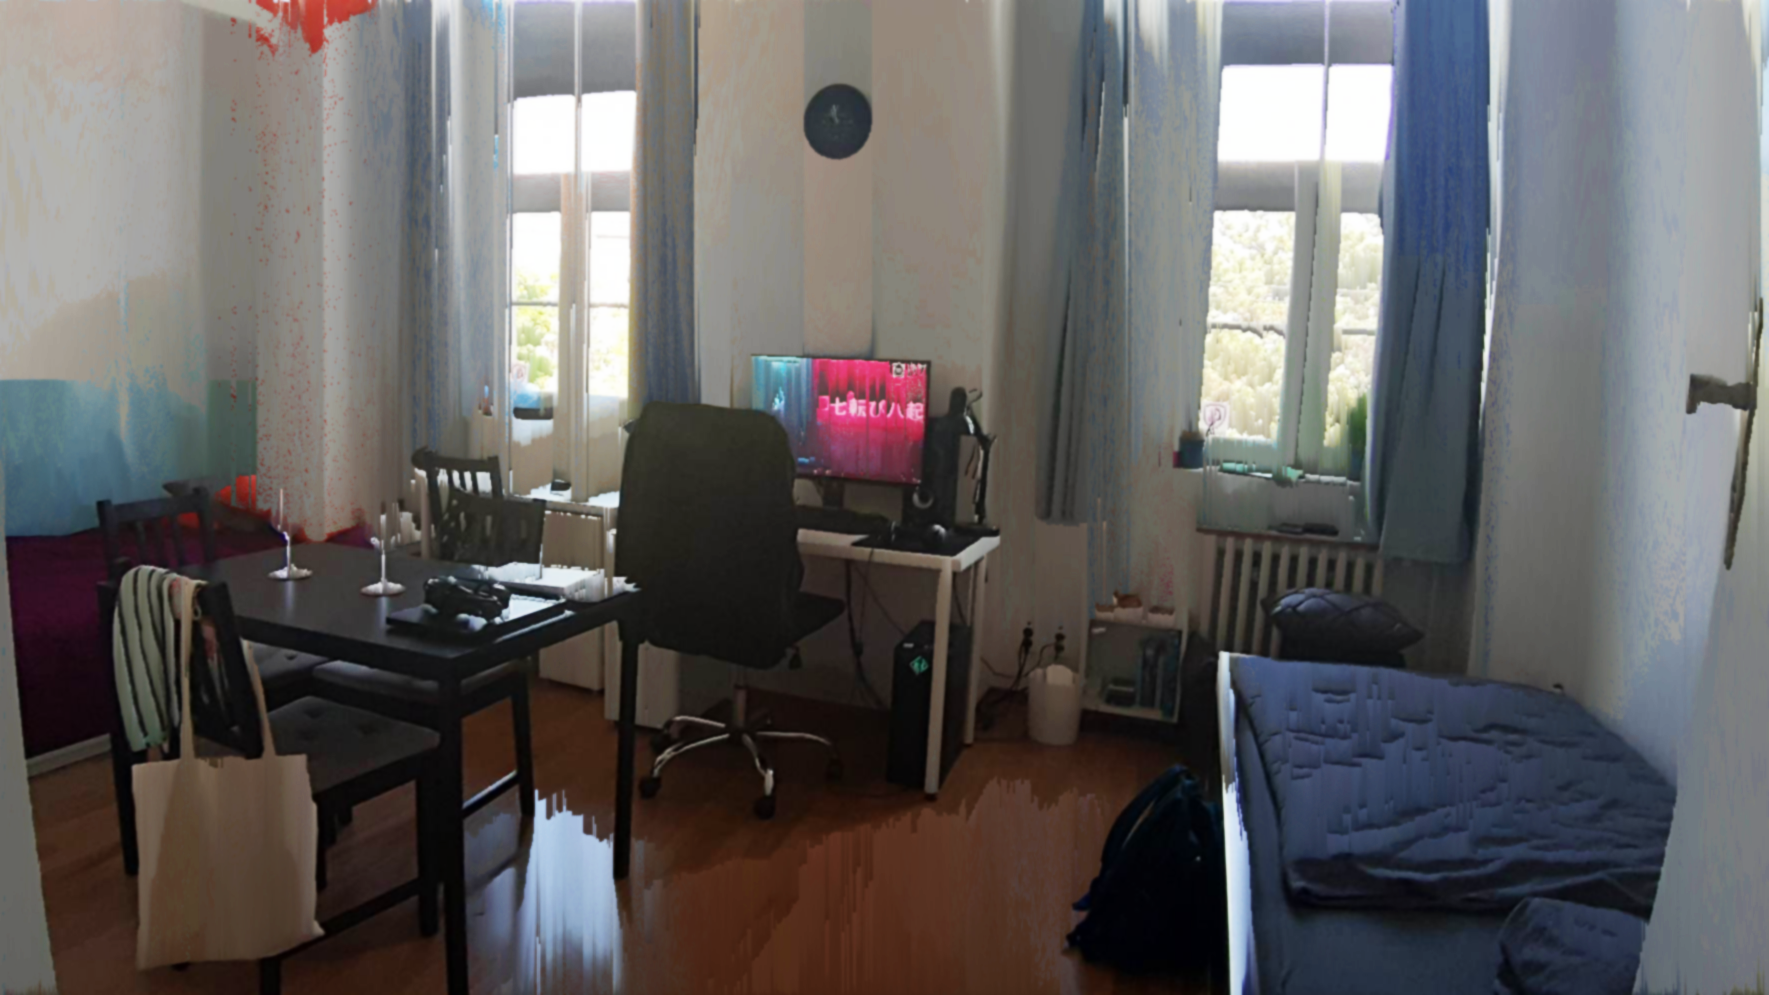
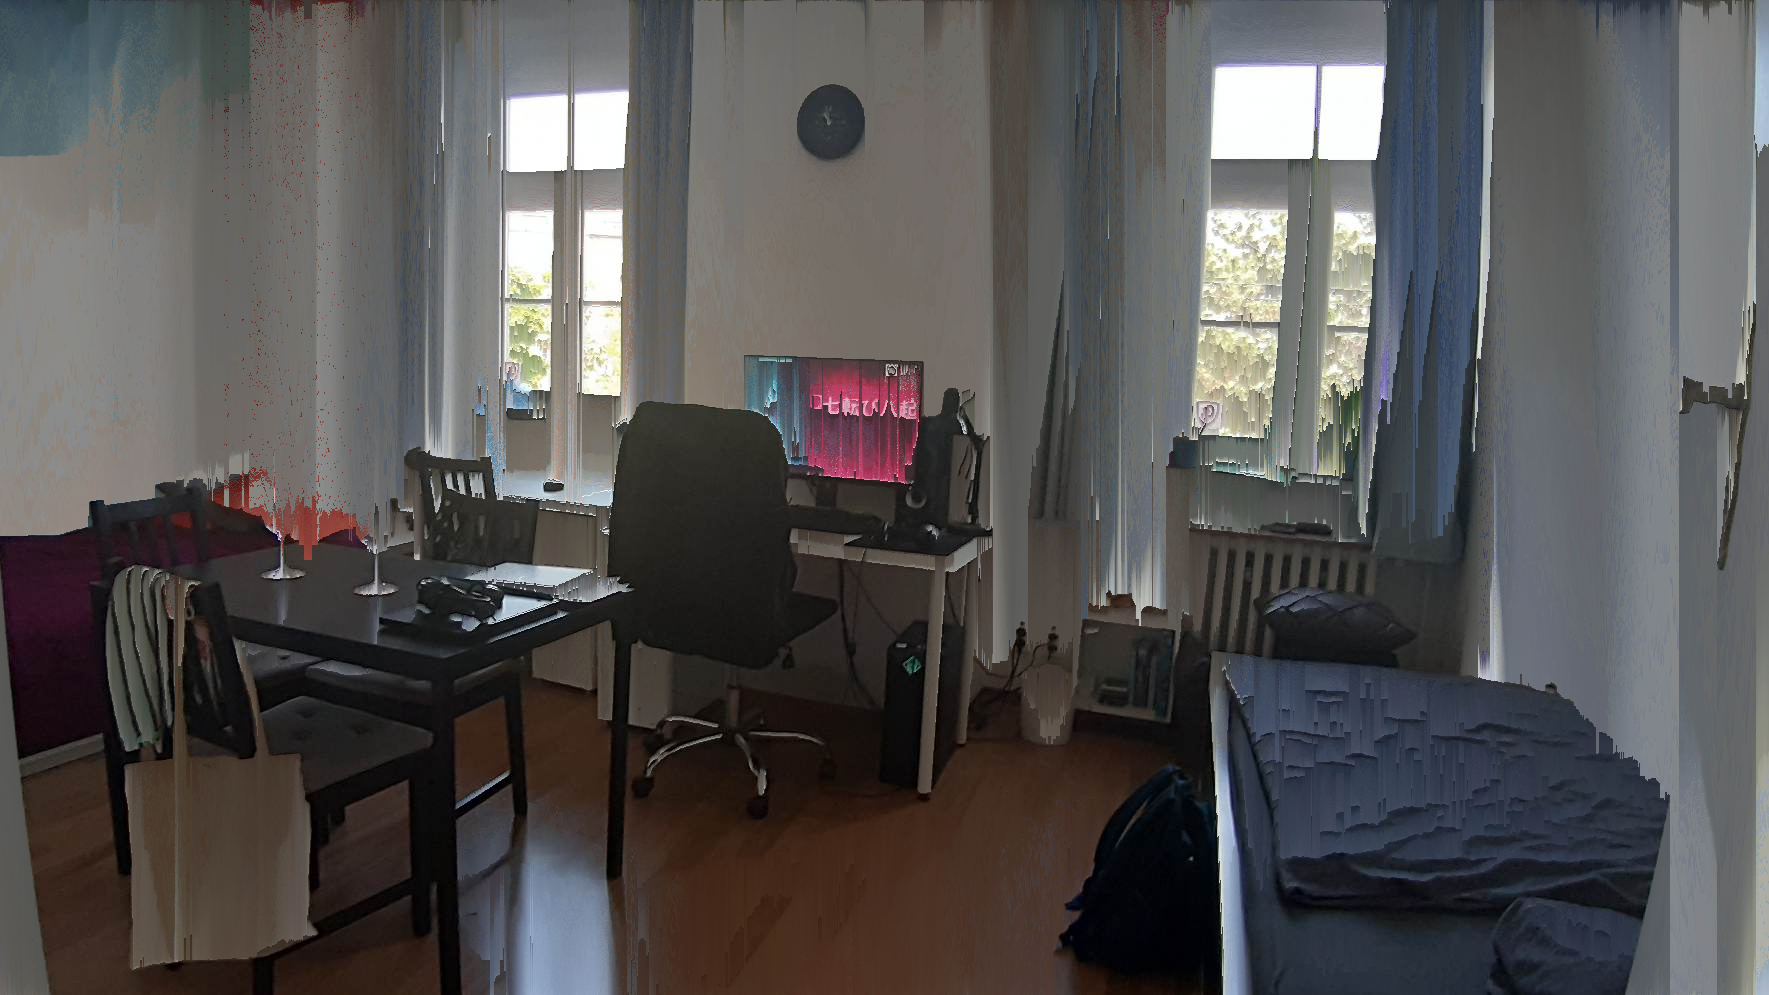
New Pictures

diff --git a/moodborad_app/static/css/index.css b/moodborad_app/static/css/index.css
@@ -1,7 +1,7 @@
 .page-header {
   height: 100vh;
 
-  background-image: url("../img/room2.png");
+  background-image: url("../img/room.png");
 
   z-index: -1;
   position: fixed;
@@ -98,8 +98,7 @@ main {
 
 .mood-box h1, h2, h3 {
   text-align: center;
-  margin: 0.2em;
-  max-width: 90%;
+  margin: 0.2em 0.5em;
 }
 
 .link-box {

diff --git a/moodborad_app/static/css/login.css b/moodborad_app/static/css/login.css
@@ -1,7 +1,7 @@
 .page-header {
   height: 100vh;
 
-  background-image: url("../img/room2.png");
+  background-image: url("../img/room.png");
 
   z-index: -1;
   position: fixed;
